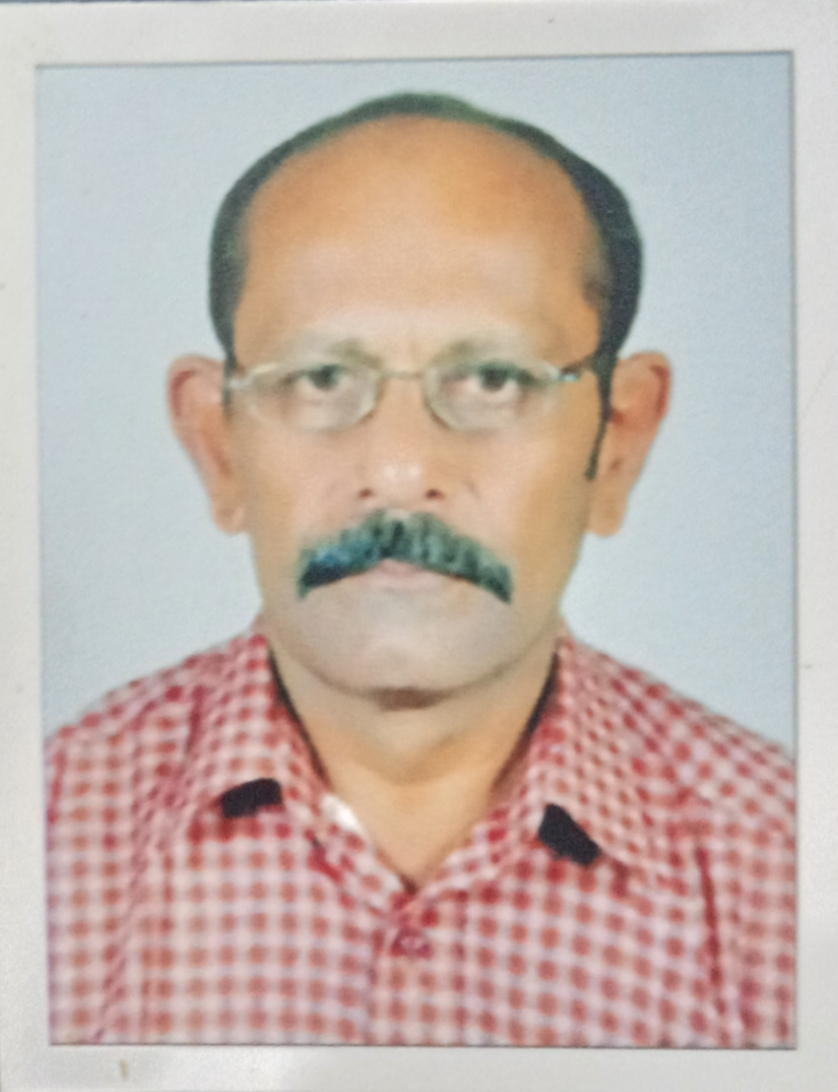
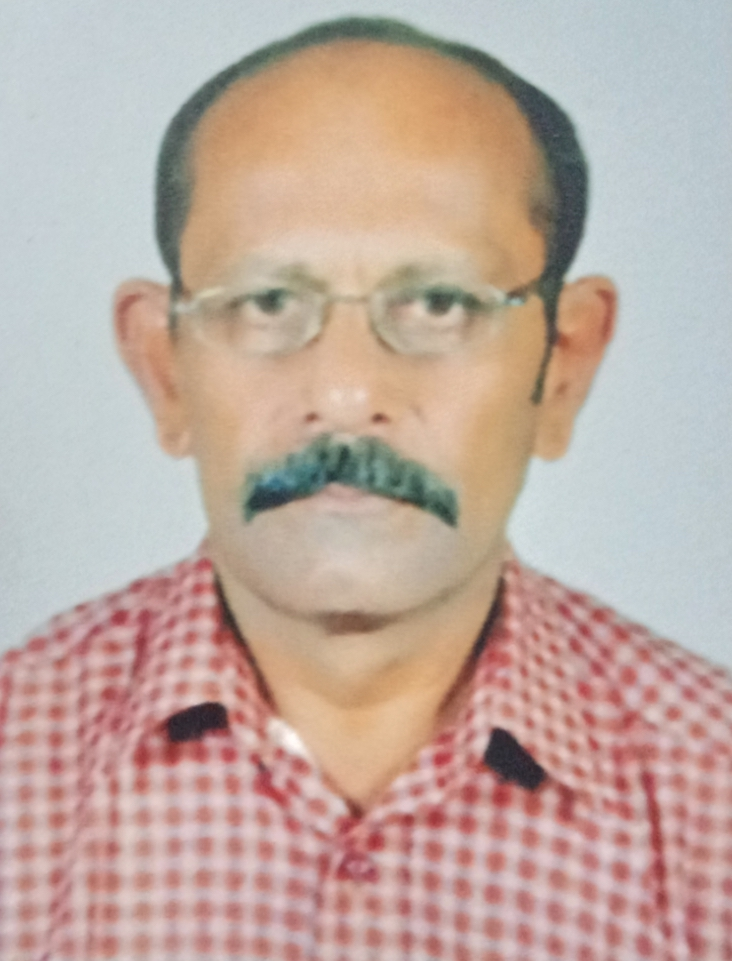
added george thomas photo and fixed css issues

diff --git a/src/app/components/office/office.component.html b/src/app/components/office/office.component.html
@@ -33,9 +33,12 @@
           </div>
           <div class="member-info">
             <h4>{{ member.name }}</h4>
-            <p>
+            <p  *ngIf="member.mobile">
               {{ member.address }}<br />
               Mob: {{ member.mobile }}
+            </p>
+            <p *ngIf="!member.mobile">
+              {{ member.address }}<br />
             </p>
           </div>
         </div>

diff --git a/src/app/components/office/office.component.css b/src/app/components/office/office.component.css
@@ -4,7 +4,9 @@
     margin: 7rem 0rem 3rem 0rem;
 }
 .off-mem-image{
-    max-width: 200px;
+    object-fit: contain;
+    height: 100%;
+    width: 100%;
 }
 .year{
     align-items: center;
@@ -13,4 +15,7 @@
 .year-selection{
     padding-top: 30px;
     padding-bottom: 30px;
+}
+.members .member .member-img {
+    height: 200px;
 }
